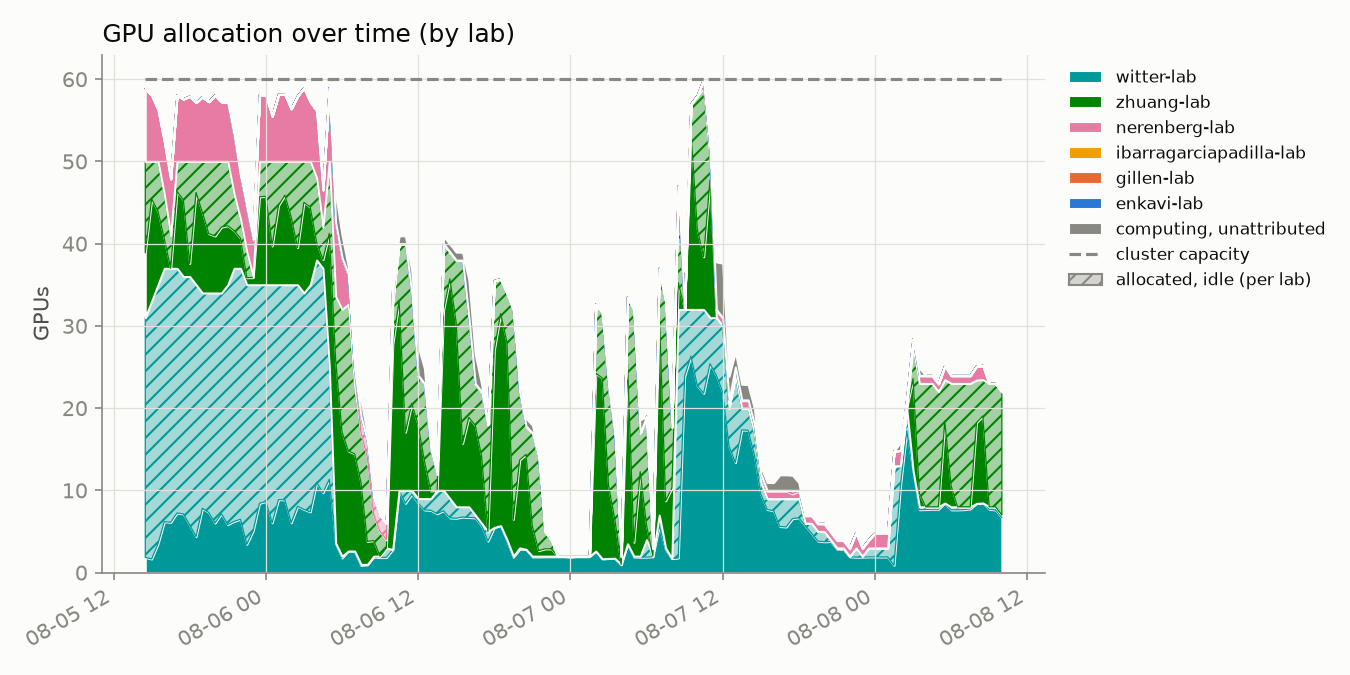
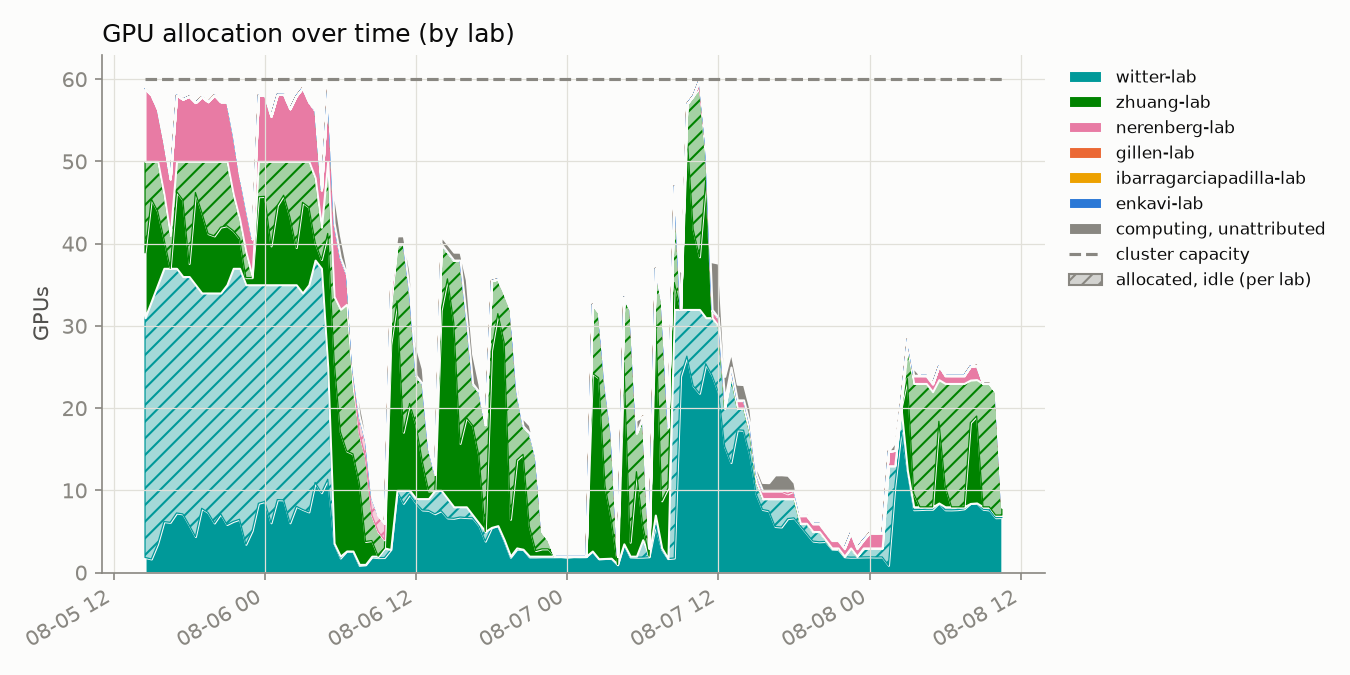
update 2026-08-08T10:30:01-07:00

diff --git a/README.md b/README.md
@@ -2,8 +2,8 @@
 
 Automated GPU/CPU/queue utilization tracker for `hopper.cluster`, updated every 30 minutes by cron. Usernames are anonymized to a stable per-account pseudonym; lab names are real.
 
-Last updated: 2026-08-08T10:00:13-07:00
-Samples: 136 queue snapshots, 136 GPU snapshots
+Last updated: 2026-08-08T10:30:10-07:00
+Samples: 137 queue snapshots, 137 GPU snapshots
 
 ## Resources
 
@@ -16,25 +16,25 @@ Samples: 136 queue snapshots, 136 GPU snapshots
 
 ## Headline
 
-- **45.3%** of the cluster's 60 GPUs allocated, averaged across all samples
-- **47.0%** average `nvidia-smi` utilization *when* a GPU is allocated to a job
+- **45.0%** of the cluster's 60 GPUs allocated, averaged across all samples
+- **47.1%** average `nvidia-smi` utilization *when* a GPU is allocated to a job
 - **88.2%** average cgroup CPU utilization *when* a CPU is allocated to a job
 
 ## Per lab / per user
 
 <table>
 <tr><th>Lab</th><th>User</th><th align='right'>GPU-hours allocated</th><th align='right'>CPU-hours allocated</th><th align='right'>GPU utilization</th></tr>
-<tr style='background-color:#d8ecd8'><td>zhuang-lab</td><td>user-0db9ced0</td><td align='right'>834.0</td><td align='right'>834.0</td><td align='right'>45%</td></tr>
-<tr style='background-color:#d8efef'><td>witter-lab</td><td>user-554c620c</td><td align='right'>483.5</td><td align='right'>1005.0</td><td align='right'>68%</td></tr>
+<tr style='background-color:#d8ecd8'><td>zhuang-lab</td><td>user-0db9ced0</td><td align='right'>834.5</td><td align='right'>834.5</td><td align='right'>45%</td></tr>
+<tr style='background-color:#d8efef'><td>witter-lab</td><td>user-554c620c</td><td align='right'>487.0</td><td align='right'>1012.5</td><td align='right'>68%</td></tr>
 <tr style='background-color:#d8efef'><td>witter-lab</td><td>user-d58f5a15</td><td align='right'>467.5</td><td align='right'>3740.0</td><td align='right'>9%</td></tr>
 <tr style='background-color:#fbebf1'><td>nerenberg-lab</td><td>user-6bb5f332</td><td align='right'>40.0</td><td align='right'>200.0</td><td align='right'>71%</td></tr>
 <tr style='background-color:#fbebf1'><td>nerenberg-lab</td><td>user-fedb5feb</td><td align='right'>22.5</td><td align='right'>54.0</td><td align='right'>67%</td></tr>
-<tr style='background-color:#fce8e0'><td>gillen-lab</td><td>user-b89a87ef</td><td align='right'>0.0</td><td align='right'>684.0</td><td align='right'>—</td></tr>
 <tr style='background-color:#dfeaf8'><td>enkavi-lab</td><td>user-c21bdaa4</td><td align='right'>0.0</td><td align='right'>171.0</td><td align='right'>—</td></tr>
-<tr style='background-color:#fcf0d8'><td>ibarragarciapadilla-lab</td><td>user-eec7ffae</td><td align='right'>0.0</td><td align='right'>426.5</td><td align='right'>—</td></tr>
 <tr style='background-color:#fbebf1'><td>nerenberg-lab</td><td>user-b12dc074</td><td align='right'>0.0</td><td align='right'>16.0</td><td align='right'>—</td></tr>
-<tr style='background-color:#fcf0d8'><td>ibarragarciapadilla-lab</td><td>user-3cfc41a3</td><td align='right'>0.0</td><td align='right'>3945.0</td><td align='right'>—</td></tr>
+<tr style='background-color:#fcf0d8'><td>ibarragarciapadilla-lab</td><td>user-3cfc41a3</td><td align='right'>0.0</td><td align='right'>3952.5</td><td align='right'>—</td></tr>
+<tr style='background-color:#fcf0d8'><td>ibarragarciapadilla-lab</td><td>user-eec7ffae</td><td align='right'>0.0</td><td align='right'>426.5</td><td align='right'>—</td></tr>
 <tr style='background-color:#fcf0d8'><td>ibarragarciapadilla-lab</td><td>user-dad71a72</td><td align='right'>0.0</td><td align='right'>6.0</td><td align='right'>—</td></tr>
+<tr style='background-color:#fce8e0'><td>gillen-lab</td><td>user-b89a87ef</td><td align='right'>0.0</td><td align='right'>696.0</td><td align='right'>—</td></tr>
 </table>
 
 ## Usage over time
@@ -45,7 +45,7 @@ Samples: 136 queue snapshots, 136 GPU snapshots
 
 Solid = utilized by lab, hatched = allocated but idle, gray = usage not traceable to a lab, dashed line = cluster capacity.
 
-Attribution combines `nvidia-smi`'s process listing with Slurm's GPU-to-job binding record; the latter caught **2657** readings the former missed.
+Attribution combines `nvidia-smi`'s process listing with Slurm's GPU-to-job binding record; the latter caught **2659** readings the former missed.
 
 ## Queue
 
@@ -57,13 +57,13 @@ Attribution combines `nvidia-smi`'s process listing with Slurm's GPU-to-job bind
 
 ![CPU usage vs GPU usage, decayed](assets/cpu_gpu_usage.png)
 
-One point per user per snapshot (n=654), usage decayed on Slurm's ~7-day fairshare half-life.
+One point per user per snapshot (n=658), usage decayed on Slurm's ~7-day fairshare half-life.
 
 **GPU usage doesn't count toward priority on this cluster** (`TRESBillingWeights`/`PriorityWeightTRES` unset) - watch the **upper-left**: low CPU usage (high priority) with high GPU usage.
 
 ## Recommendations
 
-1. **Weight GPU usage in fairshare.** `TRESBillingWeights` and `PriorityWeightTRES` are both unset right now, so Slurm's fairshare score only sees CPU-seconds - a job holding 4 idle L40S GPUs costs nothing in priority as long as it isn't also holding CPUs. That's the exact failure mode the scatter above is built to catch (upper-left: low CPU usage, high GPU usage). Fix: `scontrol update partition=main TRESBillingWeights=CPU=1.0,GRES/gpu=<weight>` (or set `PriorityWeightTRES` cluster-wide), then `scontrol reconfigure` - a full `slurmctld` restart also works but drops in-flight priority state. A reasonable starting point for `<weight>` is the CPUs-per-GPU ratio on a GPU node (128 CPUs / 4 GPUs = 32), so one GPU costs as much fairshare as the CPU share it displaces; tune from there against next week's headline numbers (45.3% allocated, 47.0% utilized when allocated, as of this snapshot). The weight value itself is a policy call - loop in whoever owns cluster allocation policy before changing it.
+1. **Weight GPU usage in fairshare.** `TRESBillingWeights` and `PriorityWeightTRES` are both unset right now, so Slurm's fairshare score only sees CPU-seconds - a job holding 4 idle L40S GPUs costs nothing in priority as long as it isn't also holding CPUs. That's the exact failure mode the scatter above is built to catch (upper-left: low CPU usage, high GPU usage). Fix: `scontrol update partition=main TRESBillingWeights=CPU=1.0,GRES/gpu=<weight>` (or set `PriorityWeightTRES` cluster-wide), then `scontrol reconfigure` - a full `slurmctld` restart also works but drops in-flight priority state. A reasonable starting point for `<weight>` is the CPUs-per-GPU ratio on a GPU node (128 CPUs / 4 GPUs = 32), so one GPU costs as much fairshare as the CPU share it displaces; tune from there against next week's headline numbers (45.0% allocated, 47.1% utilized when allocated, as of this snapshot). The weight value itself is a policy call - loop in whoever owns cluster allocation policy before changing it.
 
 2. **Escalate on sustained low utilization** (see table and scatter above). Right now the clearest candidate is `user-d58f5a15` in `witter-lab`: 467.5 GPU-hours allocated at 9% average utilization, i.e. roughly 424 GPU-hours that sat idle instead of going to someone in the queue. Turning that into an automated escalation needs two decisions made up front: a utilization threshold (something like under 20% mean utilization over at least 50 allocated GPU-hours is a defensible starting bar - loose enough to skip short debugging runs, tight enough to catch parked allocations) and a grace period (how many consecutive low-utilization snapshots before it counts as "sustained" rather than a momentary lull between batches). Once those are set, the mechanism can be either soft (a bot that reads `data/gpu_samples.jsonl` and reminds the user/lab by email or Slack) or hard (a Slurm-side QOS penalty, e.g. `sacctmgr modify qos <qos> set Priority-=<n>`, applied after N consecutive offending snapshots). Neither exists yet - today the table and scatter above are a read-only signal, not an enforced policy.
 
